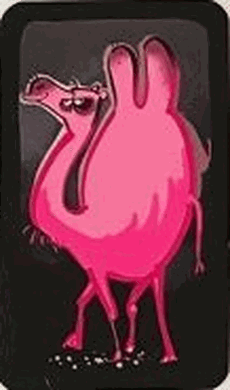
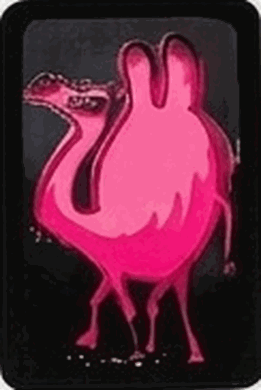
ドデリド: 5ばんめのどうぶつは シマウマ にもどす(sloth廃止・スキャンのファイル名は ナマケモノ だがカードは シマウマ)／新しいスキャンで25まいを差し替え、ワニもふくめ30まいを 261x390 にそろえる(ワニのスキャンは よこに つぶれていたので デッキの中央値 0.670 に合わせて補正)／共通: カードの色枠(いろの3px枠・豆いろの2px枠)を描かないようにし、画像が出たらプレースホルダーの色の光・絵文字・名前も消す(実物のカード画像だけを見せる)。画像が無いカードは今までどおりプレースホルダー表示 (assets 20260905001759)

diff --git a/bbg.css b/bbg.css
@@ -1248,7 +1248,8 @@ body.bbg-demo-on .app{padding-bottom:104px}
   width:92px;
   aspect-ratio:3/4;
   border-radius:10px;
-  border:2px solid var(--bz-bean,#6b7280);
+  /* 豆いろの枠は描かない（実物のカード画像そのままを見せる）。 */
+  border:0;
   background:linear-gradient(180deg, rgba(255,255,255,.04), rgba(0,0,0,.25)), var(--card2);
   overflow:hidden;
   flex:0 0 auto;
@@ -1280,6 +1281,8 @@ body.bbg-demo-on .app{padding-bottom:104px}
   -webkit-user-drag:none;user-drag:none;pointer-events:none;
 }
 .bz-card-img.is-loaded{opacity:1}
+/* 画像が出たらプレースホルダー（豆いろの光・絵文字・名前・豆メーター）は消す。 */
+.bz-card:has(.bz-card-img.is-loaded) .bz-card-ph{opacity:0}
 .bz-card-tag{
   position:absolute;left:2px;right:2px;bottom:2px;z-index:2;
   font-size:9.5px;font-weight:900;line-height:1.3;padding:1px 3px;border-radius:5px;
@@ -1493,7 +1496,9 @@ body.bbg-demo-on .app{padding-bottom:104px}
   width:min(104px,27vw);
   aspect-ratio:3/4;
   border-radius:12px;
-  border:3px solid var(--dd-col,#6b7280);
+  /* いろの枠は描かない（実物のカード画像そのままを見せる）。画像が無いときだけ
+     .dd-card-ph 側の色でどのカードか分かるようにしてある。 */
+  border:0;
   background:linear-gradient(180deg, rgba(255,255,255,.05), rgba(0,0,0,.25)), var(--card2);
   overflow:hidden;
   flex:0 0 auto;
@@ -1528,6 +1533,9 @@ body.bbg-demo-on .app{padding-bottom:104px}
   -webkit-user-drag:none;user-drag:none;pointer-events:none;
 }
 .dd-card-img.is-loaded{opacity:1}
+/* 画像が出たらプレースホルダー（いろの光・絵文字・名前・色名）は消す。
+   カードは たて長で わくは 3:4 なので、消さないと絵の左右に色と文字がのぞく。 */
+.dd-card:has(.dd-card-img.is-loaded) .dd-card-ph{opacity:0}
 
 /* 下に積まれている1まい。position:absolute なので山の大きさには影響しない
    （.dd-card の position:relative を上書きするため、かならず .dd-card より後に置くこと）。 */

diff --git a/index.html b/index.html
@@ -17,7 +17,7 @@
          ノッチの無い端末では env(safe-area-inset-top) が 0 のままなので
          充電・電波マークと重なってしまう（CSS側では避けきれない）。 -->
     <meta name="apple-mobile-web-app-status-bar-style" content="black" />
-    <link rel="stylesheet" href="./bbg.css?v=20260905000738" />
+    <link rel="stylesheet" href="./bbg.css?v=20260905001759" />
   </head>
   <body>
     <main class="app">
@@ -54,9 +54,9 @@
     <script src="https://cdn.jsdelivr.net/npm/qrcode@1.5.1/build/qrcode.min.js"></script>
 
     <!-- Optional: embedded Firebase config (see bbg-config.js) -->
-    <script src="./bbg-config.js?v=20260905000738"></script>
+    <script src="./bbg-config.js?v=20260905001759"></script>
 
-    <script src="./bbg.js?v=20260905000738" defer></script>
+    <script src="./bbg.js?v=20260905001759" defer></script>
 
     <!-- PWA Service Worker (自動アップデート付き) -->
     <script>

diff --git a/bbg.js b/bbg.js
@@ -12725,11 +12725,9 @@
     penguin: { name: 'ペンギン', emoji: '🐧' },
     turtle: { name: 'カメ', emoji: '🐢' },
     camel: { name: 'ラクダ', emoji: '🐫' },
-    sloth: { name: 'ナマケモノ', emoji: '🦥' },
-    // 昔のへや（5ばんめを シマウマ としていたころ）のカードも名前が出るように残してある。
     zebra: { name: 'シマウマ', emoji: '🦓' }
   };
-  var DD_ANIMAL_KEYS = ['flamingo', 'penguin', 'turtle', 'camel', 'sloth'];
+  var DD_ANIMAL_KEYS = ['flamingo', 'penguin', 'turtle', 'camel', 'zebra'];
 
   var DD_COLOR_DEFS = {
     white: { name: 'しろ', color: '#e8eaf0' },

diff --git a/sw.js b/sw.js
@@ -2,7 +2,7 @@
 // SW_VERSION は release.ps1 がリリースごとに自動更新する。
 // このファイルの内容が変わるとブラウザがSW更新を検知し、
 // install(新キャッシュ作成) → activate(旧キャッシュ削除) → ページ側が自動リロード、で最新版に切り替わる。
-const SW_VERSION = '20260905000738';
+const SW_VERSION = '20260905001759';
 const CACHE_NAME = 'bbg-cache-' + SW_VERSION;
 const ASSETS_TO_CACHE = [
   './',

diff --git a/assets/dodelido/README.md b/assets/dodelido/README.md
@@ -4,24 +4,26 @@
 
 **2026-09-05 時点で 30まい（5色×5どうぶつ ＋ ワニ5）すべて そろっています。**
 
+※ もとのスキャン（`ゲーム用画像/ドデリド/`）では シマウマのファイル名が `<いろ>_ナマケモノ.jpg` になっていますが、**カードは シマウマ**です（`*_zebra.png` として取りこみます）。
+
 ## 置くファイル名
 
 ファイル名は `<いろ>_<どうぶつ>.png` です（ワニだけ `croc1.png`〜`croc5.png`）。
 
-| | flamingo（フラミンゴ） | penguin（ペンギン） | turtle（カメ） | camel（ラクダ） | sloth（ナマケモノ） |
+| | flamingo（フラミンゴ） | penguin（ペンギン） | turtle（カメ） | camel（ラクダ） | zebra（シマウマ） |
 |---|---|---|---|---|---|
-| **white（しろ）** | `white_flamingo.png` | `white_penguin.png` | `white_turtle.png` | `white_camel.png` | `white_sloth.png` |
-| **pink（ピンク）** | `pink_flamingo.png` | `pink_penguin.png` | `pink_turtle.png` | `pink_camel.png` | `pink_sloth.png` |
-| **yellow（きいろ）** | `yellow_flamingo.png` | `yellow_penguin.png` | `yellow_turtle.png` | `yellow_camel.png` | `yellow_sloth.png` |
-| **blue（あお）** | `blue_flamingo.png` | `blue_penguin.png` | `blue_turtle.png` | `blue_camel.png` | `blue_sloth.png` |
-| **green（みどり）** | `green_flamingo.png` | `green_penguin.png` | `green_turtle.png` | `green_camel.png` | `green_sloth.png` |
+| **white（しろ）** | `white_flamingo.png` | `white_penguin.png` | `white_turtle.png` | `white_camel.png` | `white_zebra.png` |
+| **pink（ピンク）** | `pink_flamingo.png` | `pink_penguin.png` | `pink_turtle.png` | `pink_camel.png` | `pink_zebra.png` |
+| **yellow（きいろ）** | `yellow_flamingo.png` | `yellow_penguin.png` | `yellow_turtle.png` | `yellow_camel.png` | `yellow_zebra.png` |
+| **blue（あお）** | `blue_flamingo.png` | `blue_penguin.png` | `blue_turtle.png` | `blue_camel.png` | `blue_zebra.png` |
+| **green（みどり）** | `green_flamingo.png` | `green_penguin.png` | `green_turtle.png` | `green_camel.png` | `green_zebra.png` |
 
 - `croc1.png` 〜 `croc5.png` … ワニ（5まいとも絵がちがうので、それぞれ別ファイル）
 - `back.png`（任意） … カード裏面
 
 ## 注意点
 
-- 形式は **PNG**、**縦長のカード画像**を想定しています。表示は 230x390 くらいなので、それ以上に大きくしても意味がありません。
+- 形式は **PNG**、**縦長のカード画像**を想定しています。**カード30まいは 261x390 でそろえてあります**（1つのデッキなので形はぜんぶ同じ。スキャンのたてよこ比の中央値 0.670）。表示はこれより小さいので、大きくしても意味がありません。
 - **かならず減色して軽くしてから置いてください**（1まい 30〜45KB めやす）。スキャンそのままの PNG は 1まい 200KB ちかくあり、105まいぶんだと初回表示で待たされます。
   変換のしかた（Python + Pillow・見た目はほぼ変わりません）:
 

diff --git a/DODELIDO_DESIGN.md b/DODELIDO_DESIGN.md
@@ -10,7 +10,7 @@
 ### 1.1 カード構成（全105枚）
 
 - どうぶつ5種 × いろ5色 × 各4枚 = 100枚
-  - どうぶつ: フラミンゴ🦩 / ペンギン🐧 / カメ🐢 / ラクダ🐫 / ナマケモノ🦥
+  - どうぶつ: フラミンゴ🦩 / ペンギン🐧 / カメ🐢 / ラクダ🐫 / シマウマ🦓
   - いろ: しろ / ピンク / きいろ / あお / みどり
 - ワニ🐊 × 5枚（絵は5まいとも別。アプリではロビー設定で 0〜10枚に変更できる）
 
@@ -28,7 +28,7 @@
 |---|---|
 | 片方の特徴だけ一致 | その名前（「あお！」「ペンギン！」） |
 | 両方一致・数がちがう | **多いほう**（きいろ3枚・フラミンゴ2枚→「きいろ！」） |
-| 両方一致・同数 | **「ドデリド！」**（きいろのナマケモノ3枚のような3=3も同様） |
+| 両方一致・同数 | **「ドデリド！」**（きいろのシマウマ3枚のような3=3も同様） |
 | 何も一致しない | **「なし！」**（ラウンド1枚目も「なし」） |
 | カメが見えている | 1枚につき頭に**「オー」**を付ける（「オー オー ドデリド！」）。カメがいないのに「オー」は反則 |
 | ワニが出た | コールせず**全員（出した本人も）がワニのカードをたたく**。一番遅い人が場の全カードを引き取る |
